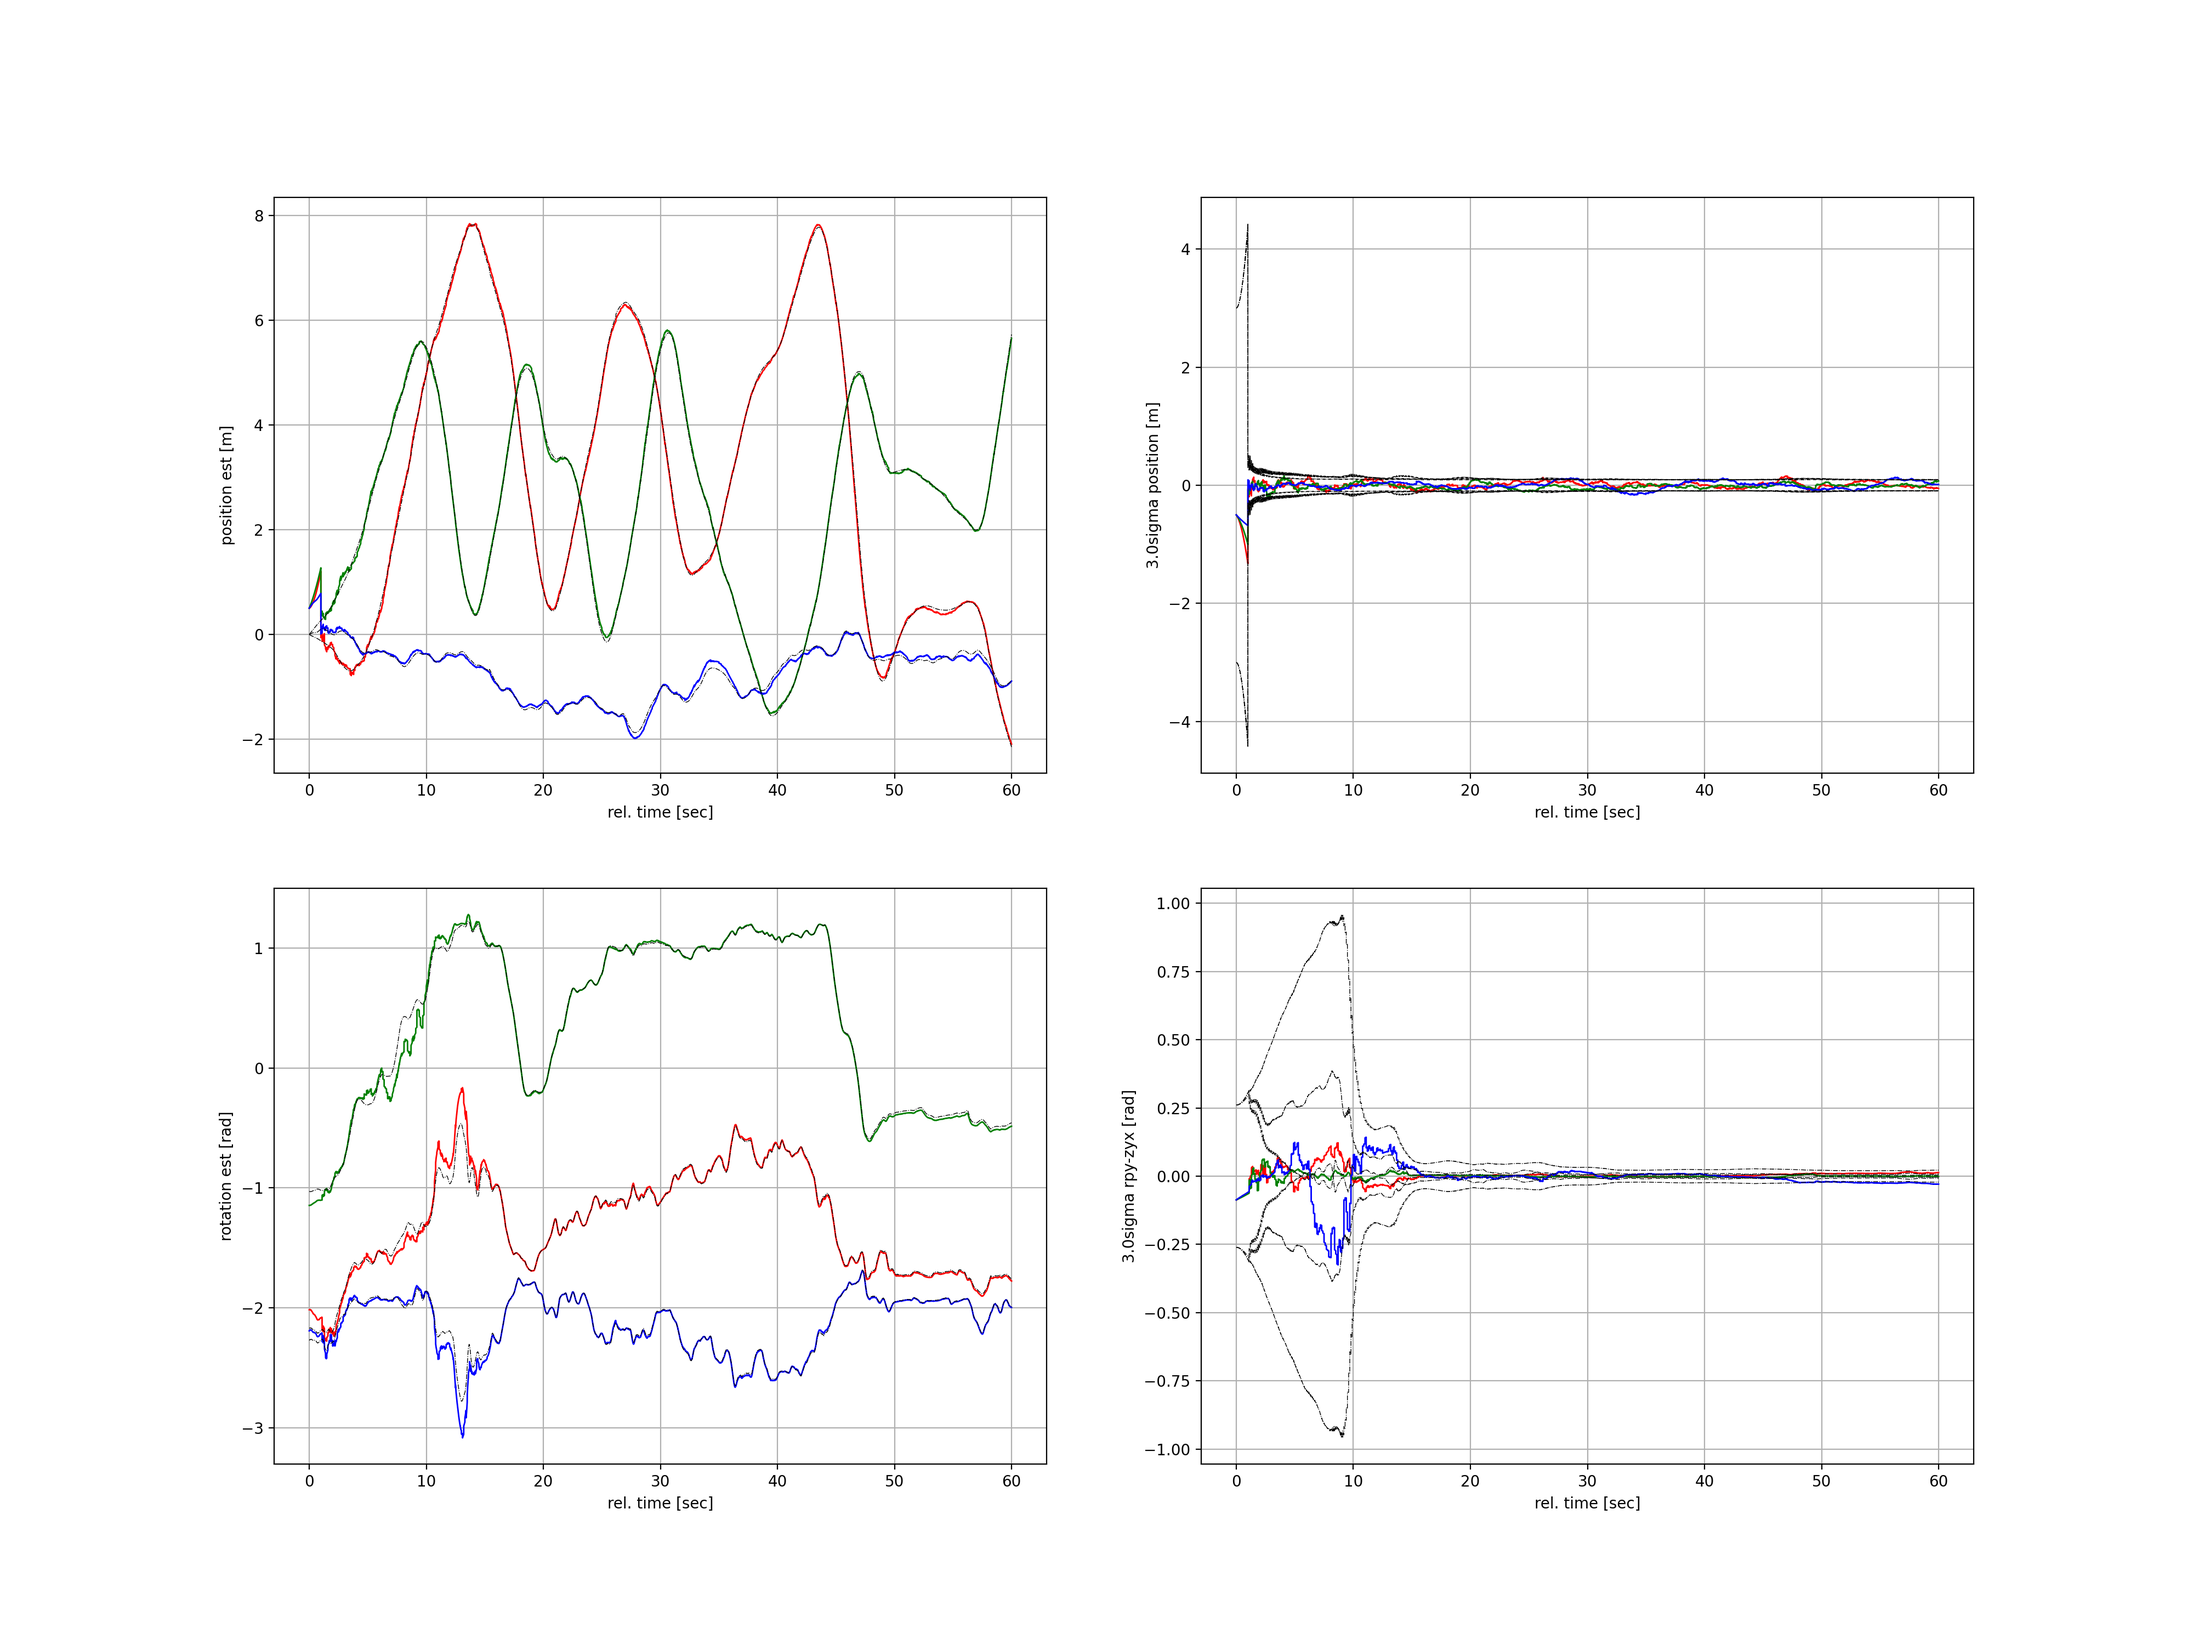
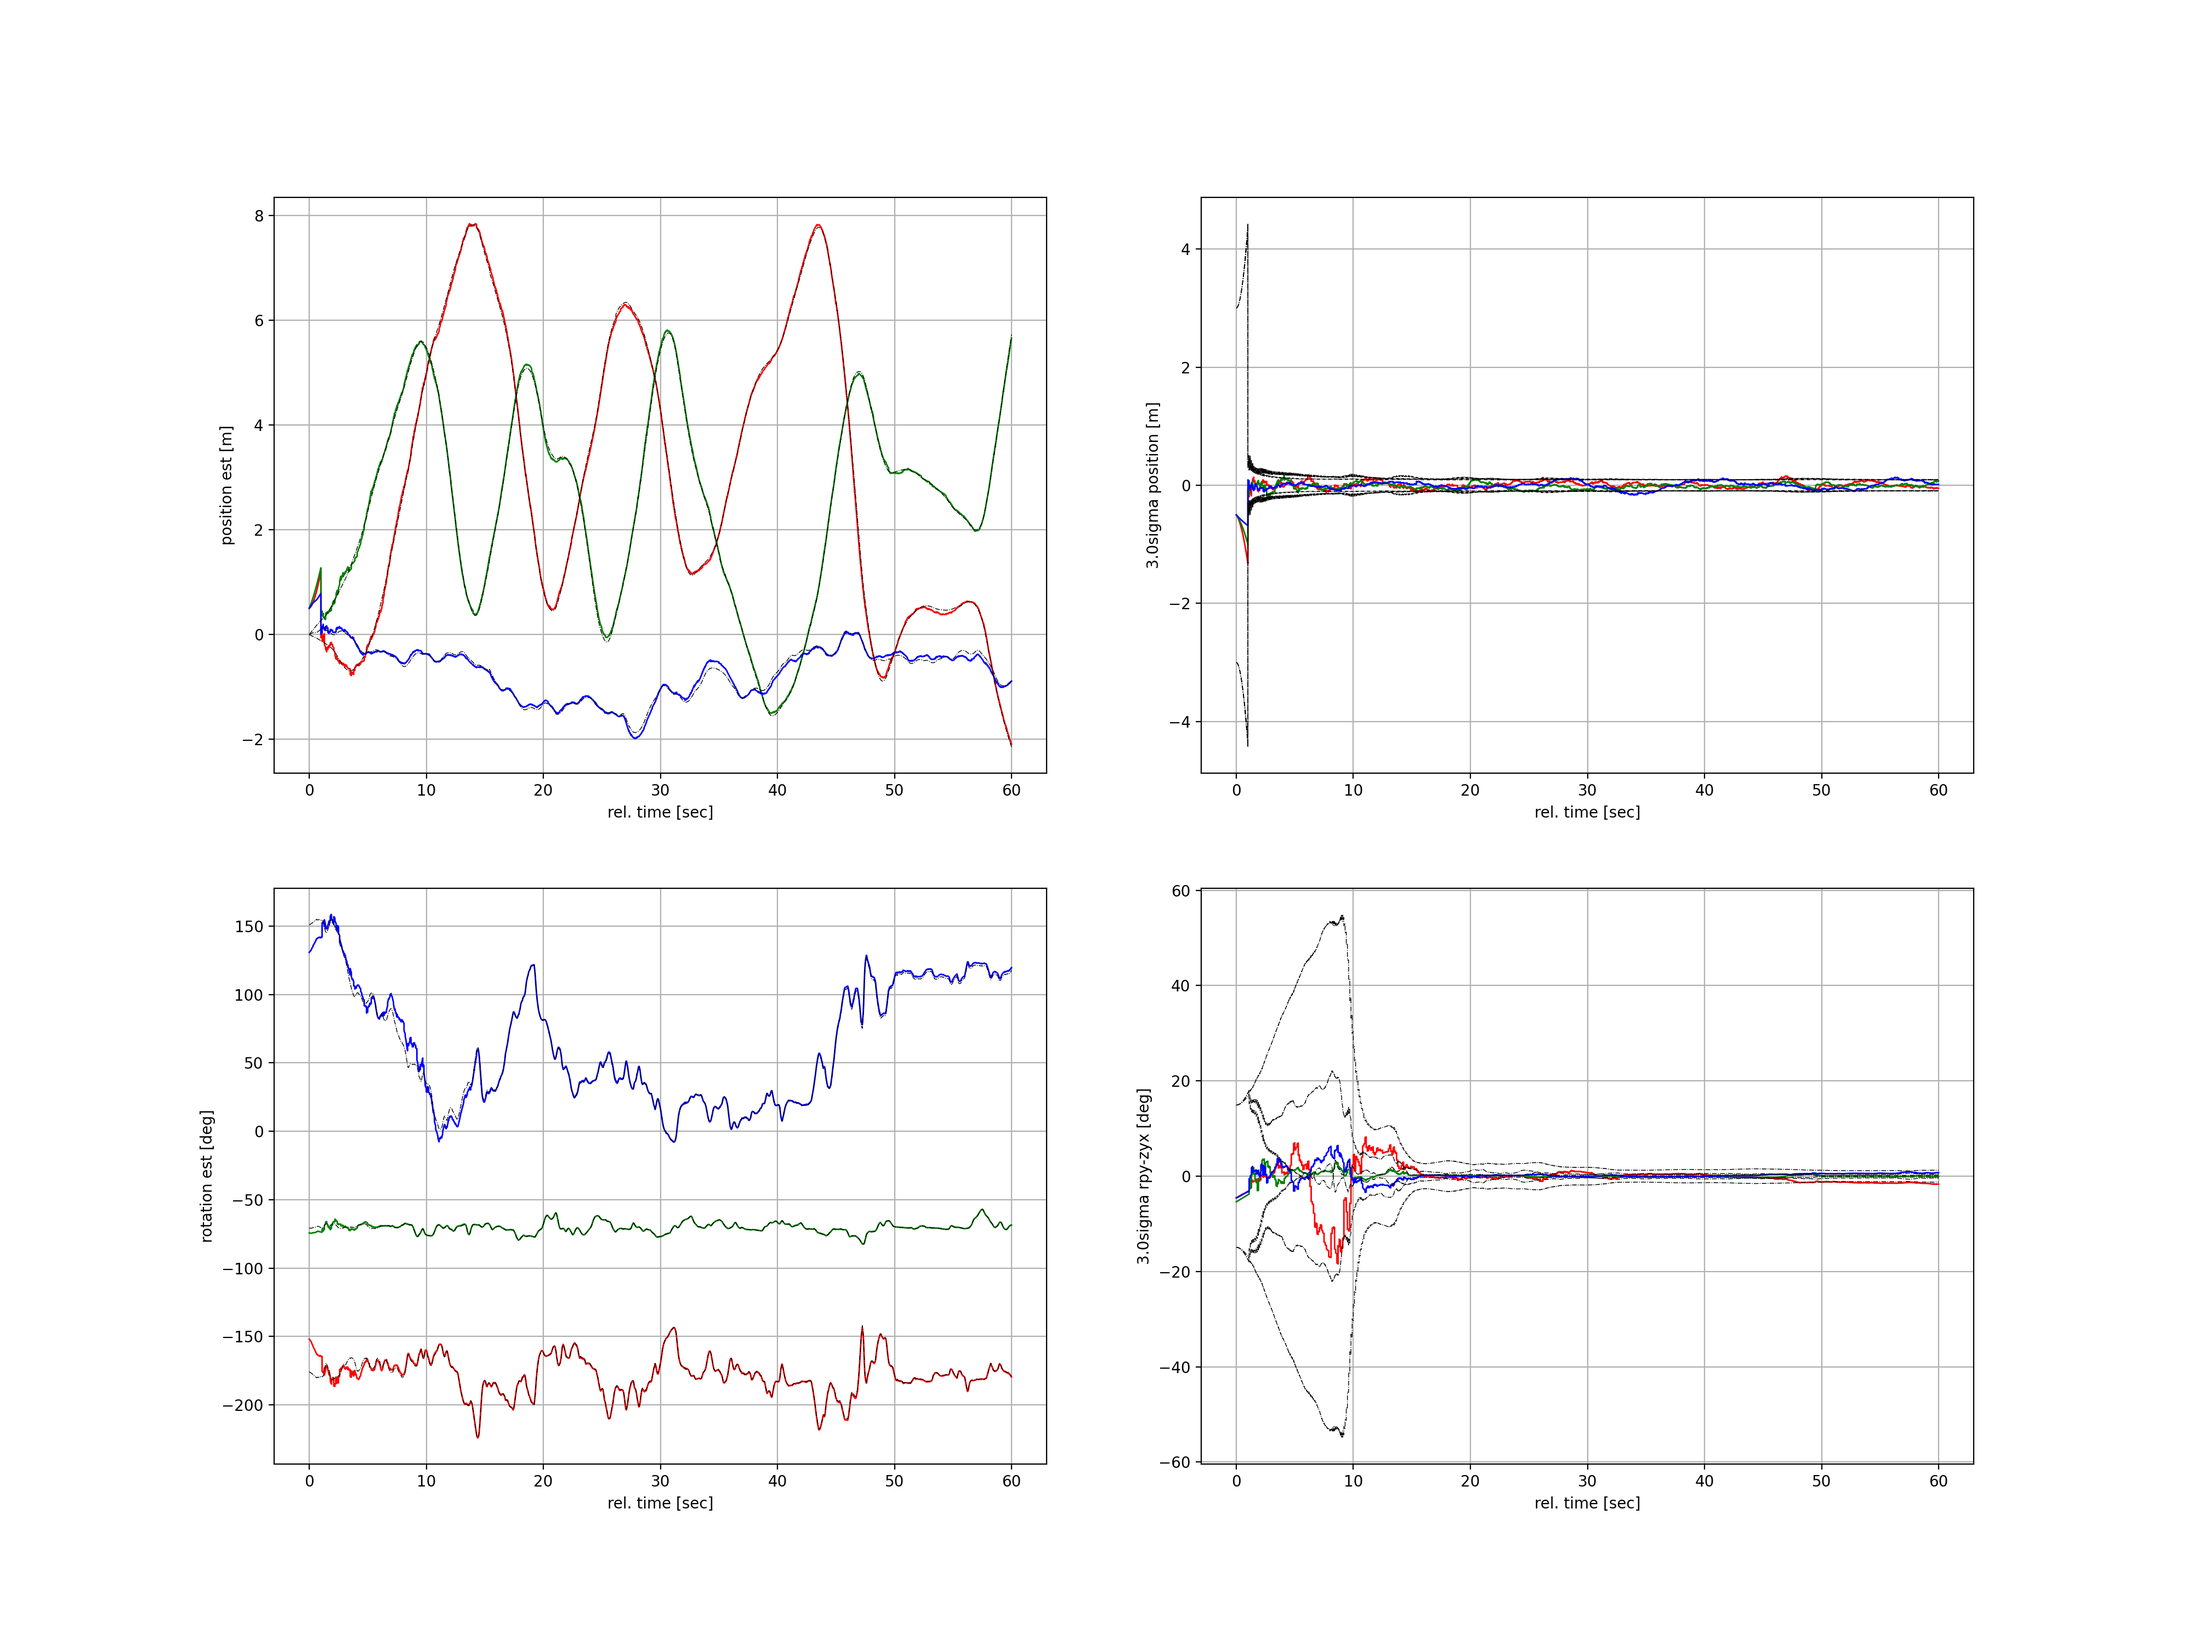
[FIX] Trajectory.get_rpy_vec(): order set to 'zyx'

diff --git a/test/test_TrajectoryPlotter.py b/test/test_TrajectoryPlotter.py
@@ -71,6 +71,7 @@ class TrajectoryPlotter_Test(unittest.TestCase):
     def test_full_error_plot(self):
         traj_gt, traj_est, traj_err = self.load_gt_est_err()
         cfg = TrajectoryPlotConfig(show=True,
+                                   radians=False,
                                    close_figure=False,
                                    save_fn=str(SAMPLE_DATA_DIR + '/../../doc/traj_plotter_full_err.png'),
                                    view_angle=(40, 20))

diff --git a/cnspy_trajectory/Trajectory.py b/cnspy_trajectory/Trajectory.py
@@ -122,7 +122,7 @@ class Trajectory:
         rpy_vec = np.zeros(np.shape(self.p_vec))
         for i in range(np.shape(self.p_vec)[0]):
             q = SpatialConverter.HTMQ_quaternion_to_Quaternion(self.q_vec[i, :])
-            rpy_vec[i, :] = q.unit().rpy(order='xyz')
+            rpy_vec[i, :] = q.unit().rpy(order='zyx')
 
         return rpy_vec
 
